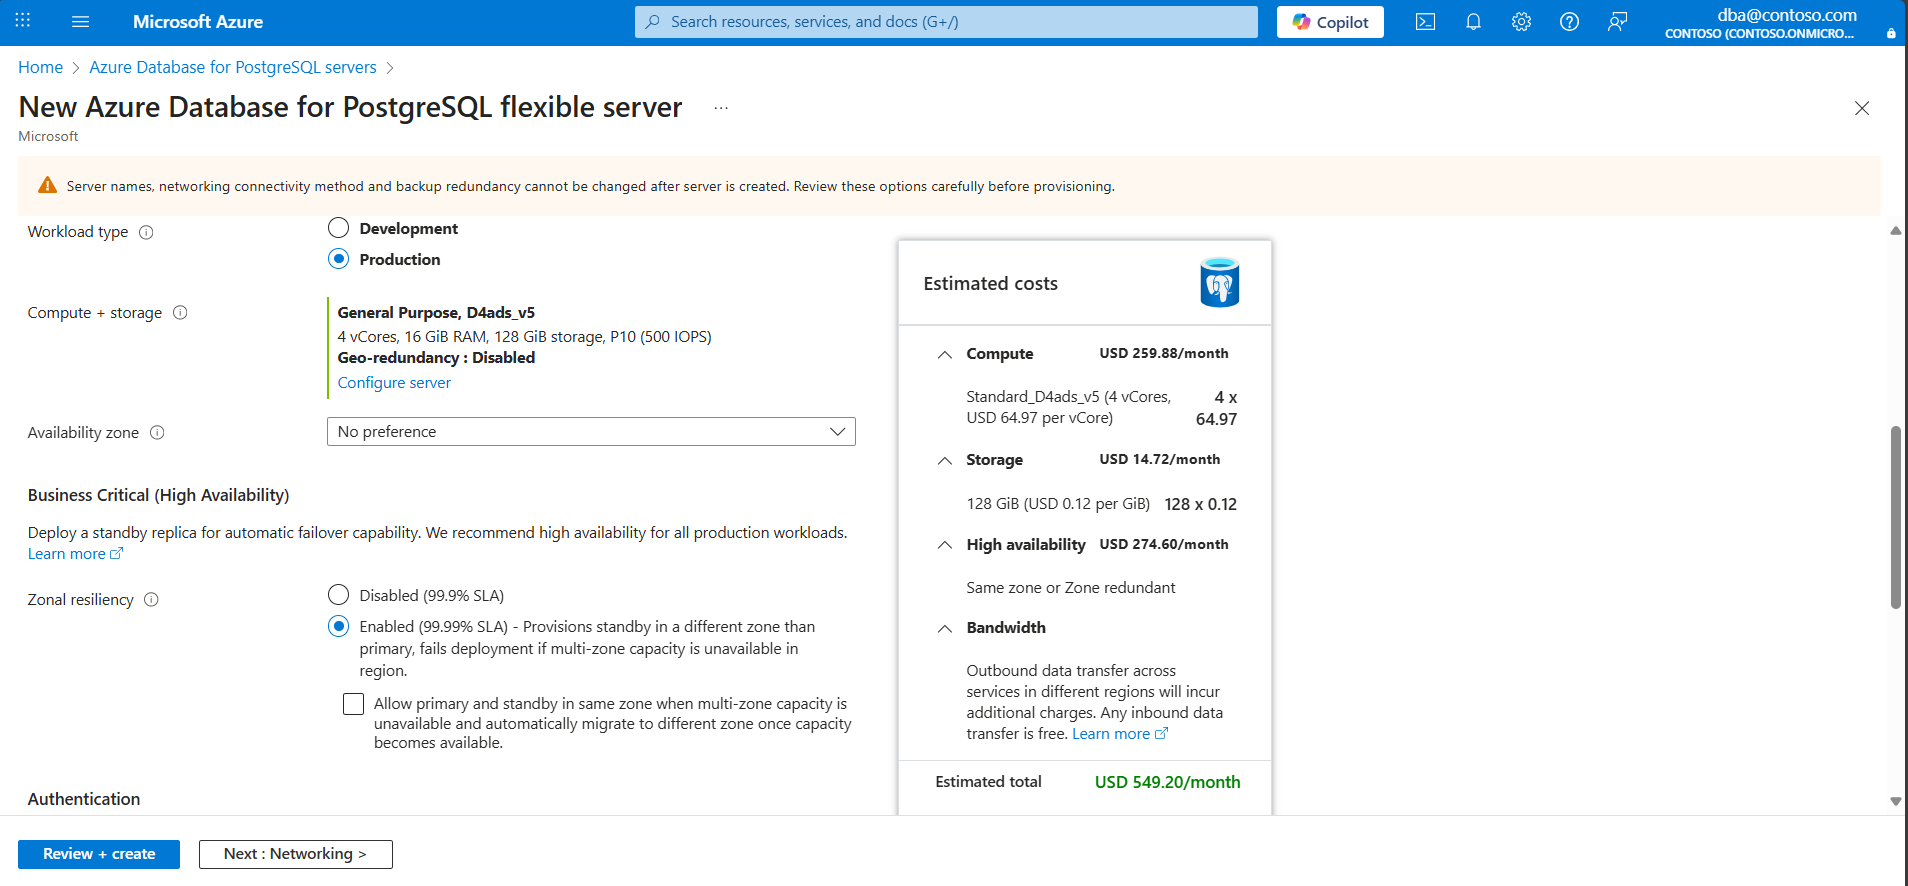
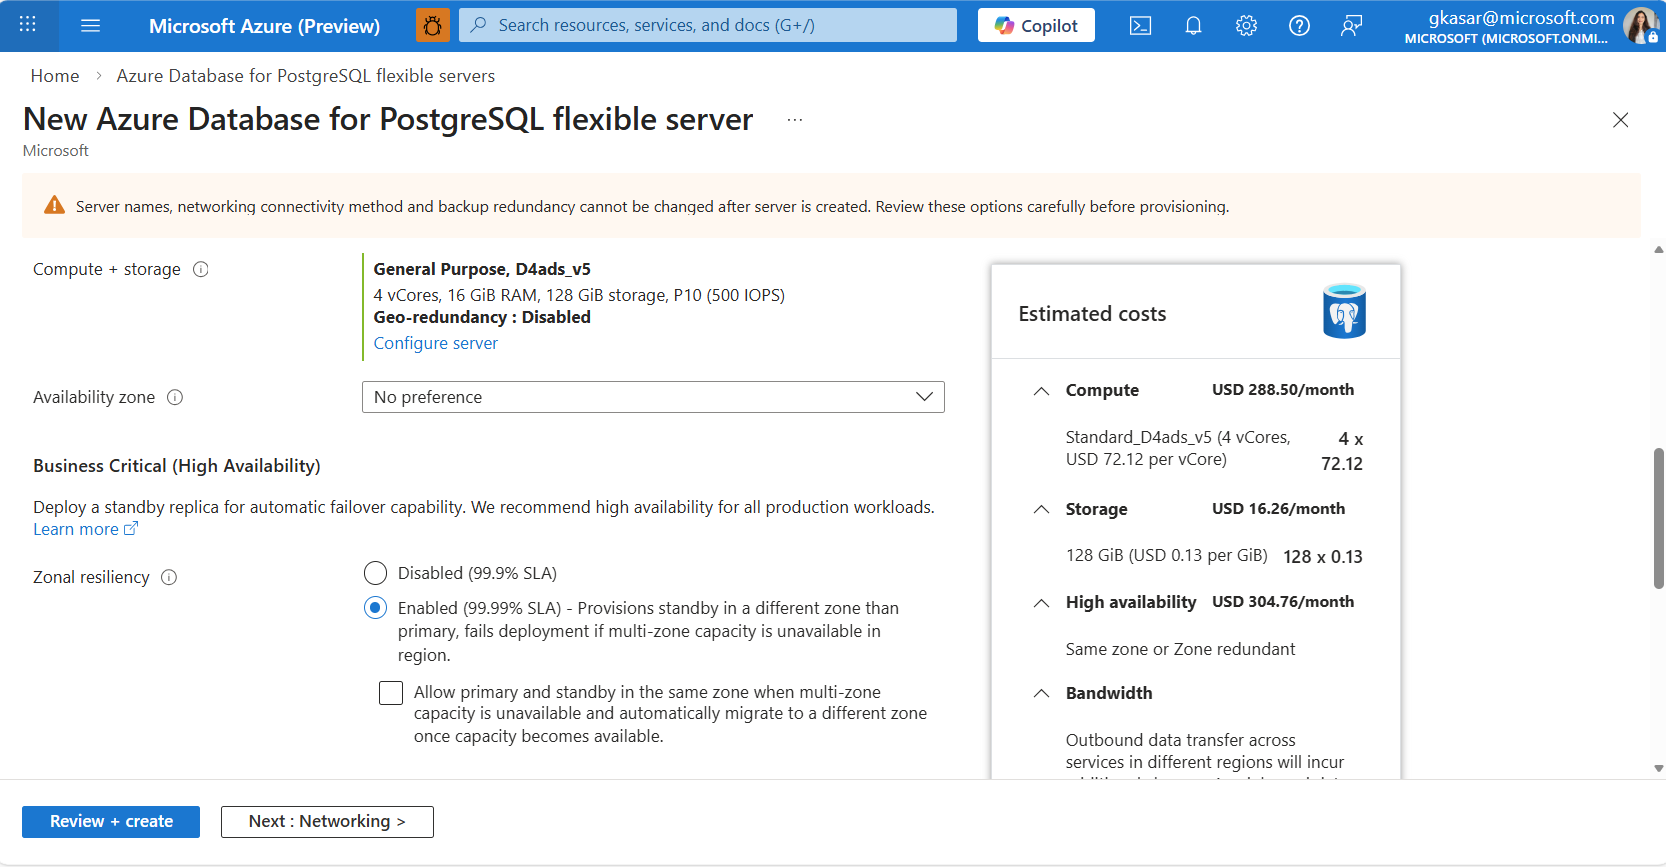
Adding images for the document

diff --git a/articles/reliability/reliability-azure-database-postgresql.md b/articles/reliability/reliability-azure-database-postgresql.md
@@ -48,7 +48,7 @@ The **zonal** deployment option is available in all [Azure regions](/azure/postg
 
 You can configure high availability (HA) in two ways: zone-redundant HA, which places the standby server in a different availability zone for maximum resiliency, or same-zone HA, which deploys the standby server in the same zone as the primary server to minimize latency.
 
-The **'Business Critical (High Availability)'** section provides an option to create a standby HA server with **zonal resiliency** setup. To simplify configuration and ensure zonal resiliency, the portal provides a Zonal Resiliency option with two radio buttons: Enabled and Disabled. Selecting Enabled attempts to create the standby server in a different availability zone (zone-redundant HA mode). If the region doesn't support zone-redundant HA, you can select the fallback checkbox (highlighted in the following image) to enable same-zone HA instead.
+The **'Business Critical (High Availability)'** section provides an option to create a standby HA server with **zonal resiliency** setup. To simplify configuration and ensure zonal resiliency, the portal provides a Zonal Resiliency option with two radio buttons: Enabled and Disabled. Selecting Enabled attempts to create the standby server in a different availability zone (zone-redundant HA mode). If the region doesn't support zone-redundant HA, you can select the fallback checkbox to enable same-zone HA instead.
 
 :::image type="content" source="media/reliability-azure-database-postgresql/multi-availability-zones.png" alt-text="Screenshot of the zonal resiliency experience in the portal." lightbox="./media/reliability-azure-database-postgresql/multi-availability-zones.png":::
 
